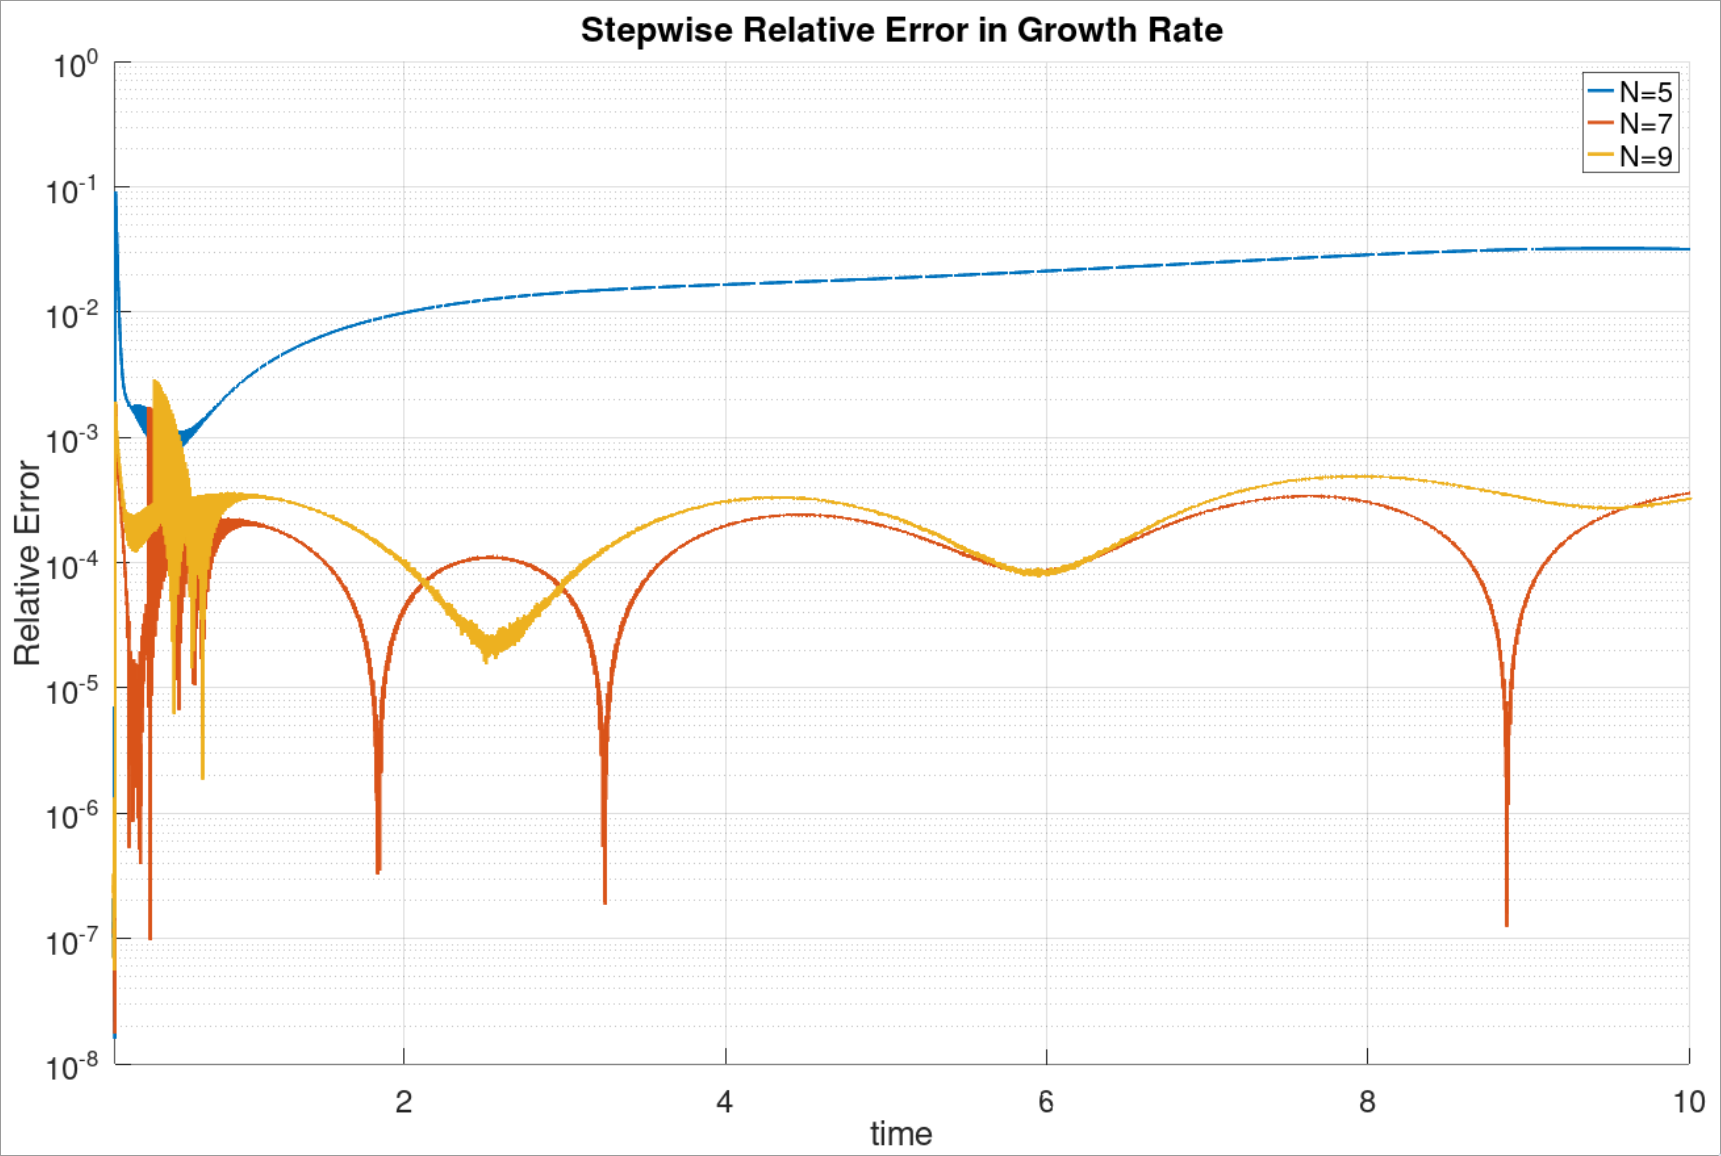
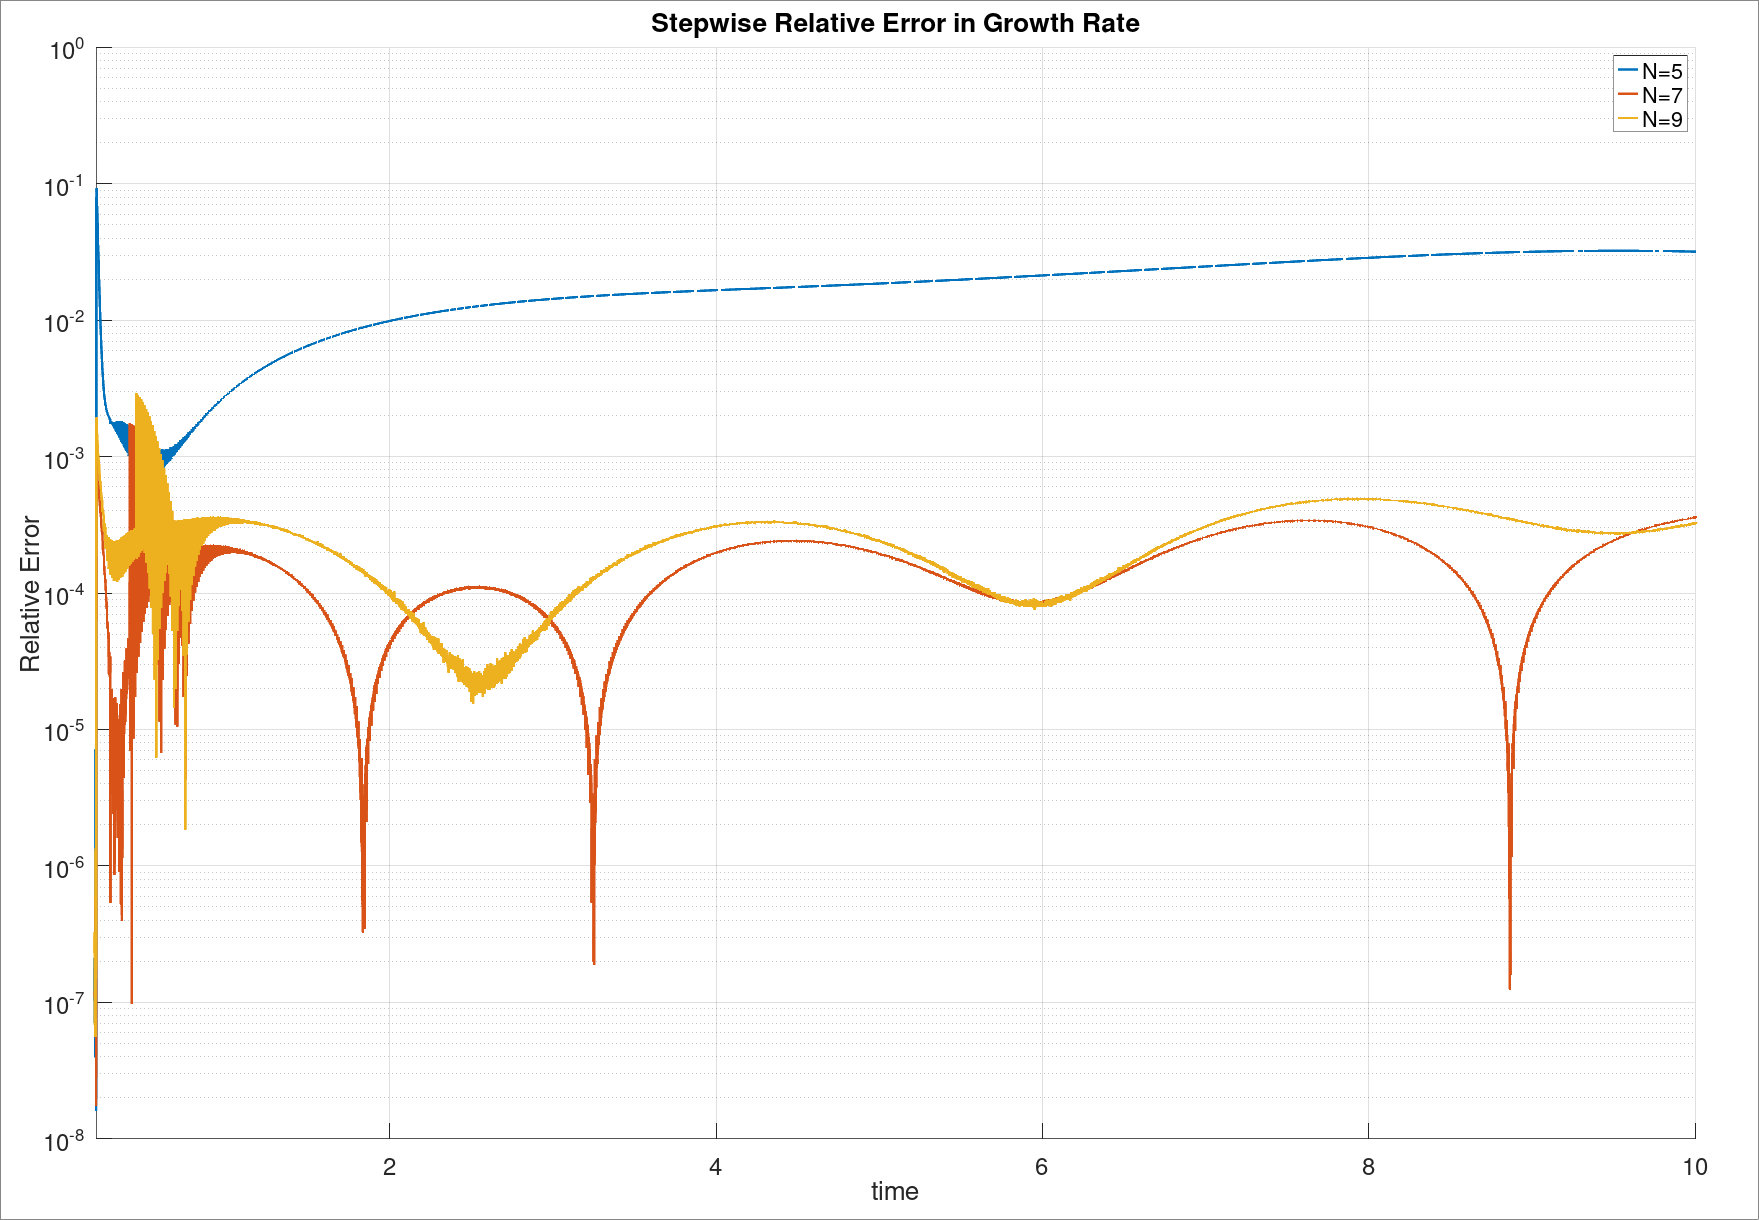
update result

diff --git a/thanh1_lin/README.md b/thanh1_lin/README.md
@@ -2,6 +2,8 @@
 Flow is along the z direction and periodic in z.
 
 Fluid domain is [-1, 1] x [-1, 1] x [0, 2pi/alpha] where alpha is the wave number.
+Solid domain has a thickness of 0.1.
+
 
 Reference paper: [Priede2016](https://doi.org/10.1017/jfm.2015.709)
 
@@ -70,8 +72,8 @@ The only unstable eigenvalue is `gamma = 0.00604853617 - 0.89997283133i`
 ### Ha = 100
 ```
 N = 15
-Re = 1e4;
-Ha = 15;
+Re = 3e4;
+Ha = 100;
 c = 1.0;
 W = 0.1;
 alpha = 1.0;
@@ -79,6 +81,6 @@ alpha = 1.0;
 meshVel  = [-1.0, -0.8, -0.4, 0.0, 0.4, 0.8, 1.0];
 meshWall = [0.0, 1.0]*W + 1.0;
 ```
-The only unstable eigenvalue is `gamma = 0.0186048180 - 0.7790663688i`
+The only unstable eigenvalue is `gamma = 0.0199250325 - 0.7769595690i`
 ![Ha100](img/ha100.png)
 
